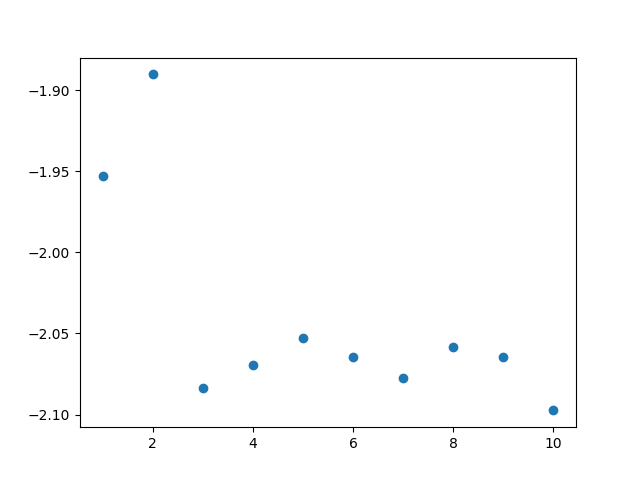
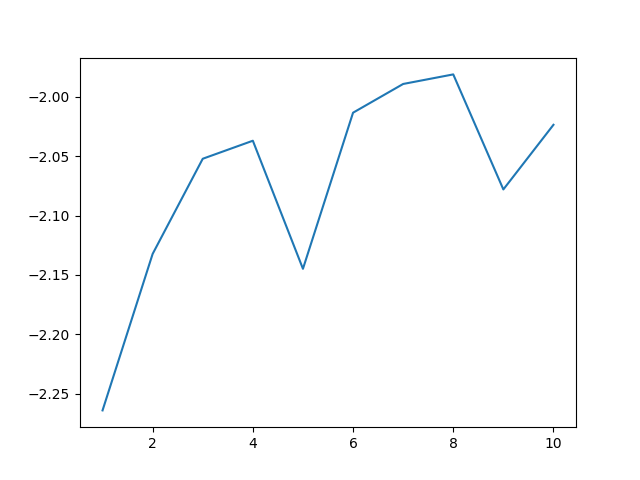
working on homework 4

diff --git a/Homework_4/data_generation.py b/Homework_4/data_generation.py
@@ -68,7 +68,7 @@ def generate_2d_Gaussian_Mixture_pdf(data, components = 1,color = 'black'):
     
     
 def generate_Gaussian_Mixture_logprob(data, components = 1, color = 'black'):
-    GM_1 = mixture.GaussianMixture(components,tol=1e-5)
+    GM_1 = mixture.GaussianMixture(components)
     GM_1.fit(data)
     data = np.array(data[0]).reshape(-1,1)
     likelihood = (GM_1.score(data))
@@ -106,7 +106,7 @@ def q4(total_points):
         logprobs.append(generate_Gaussian_Mixture_logprob(total_points,i+1))
     print(logprobs)
     x = np.linspace(1,10,10)
-    plt.scatter(x,logprobs)
+    plt.plot(x,logprobs)
     plt.savefig("q4.png")
 
 def separate_classes(data):
